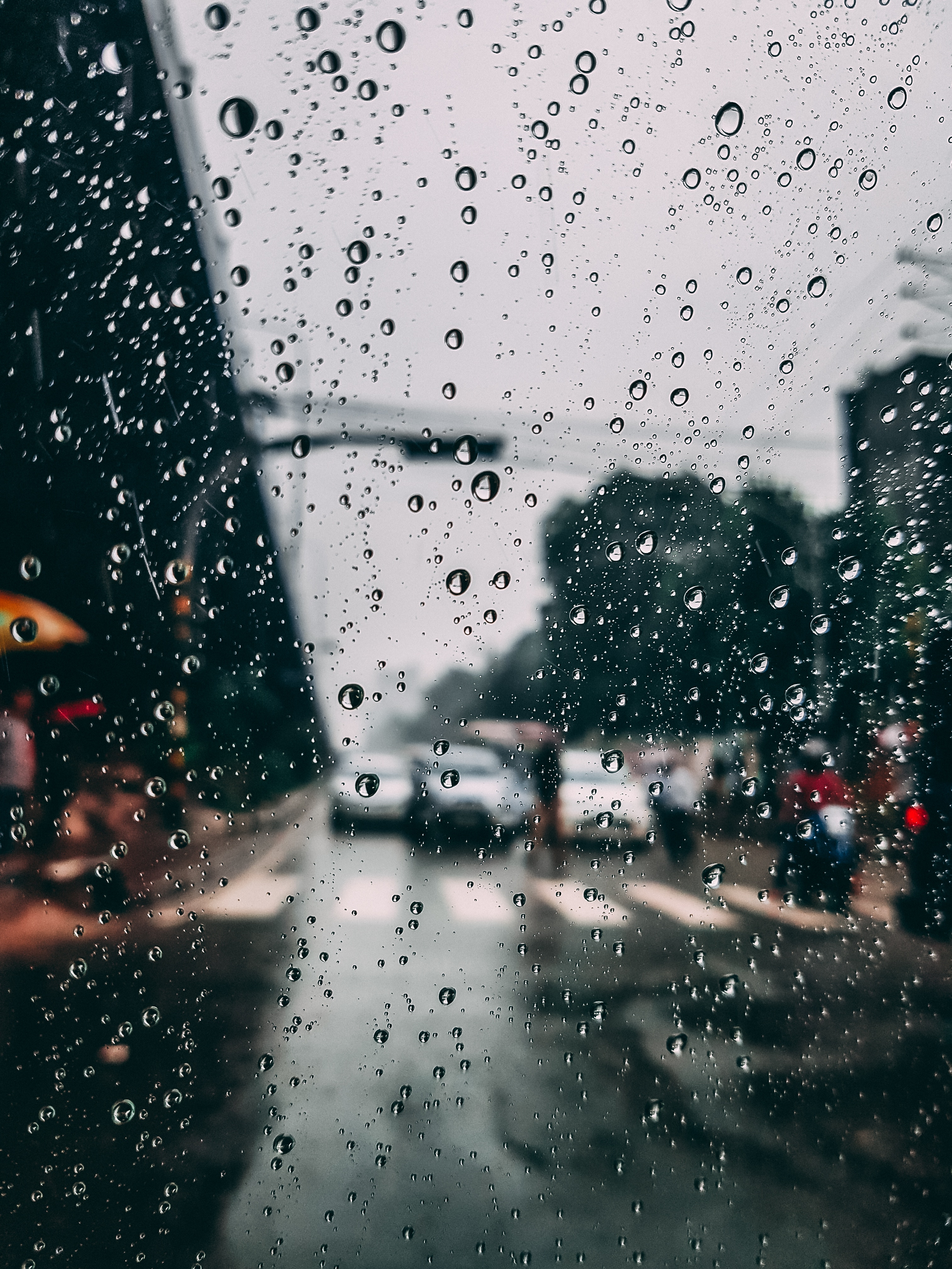
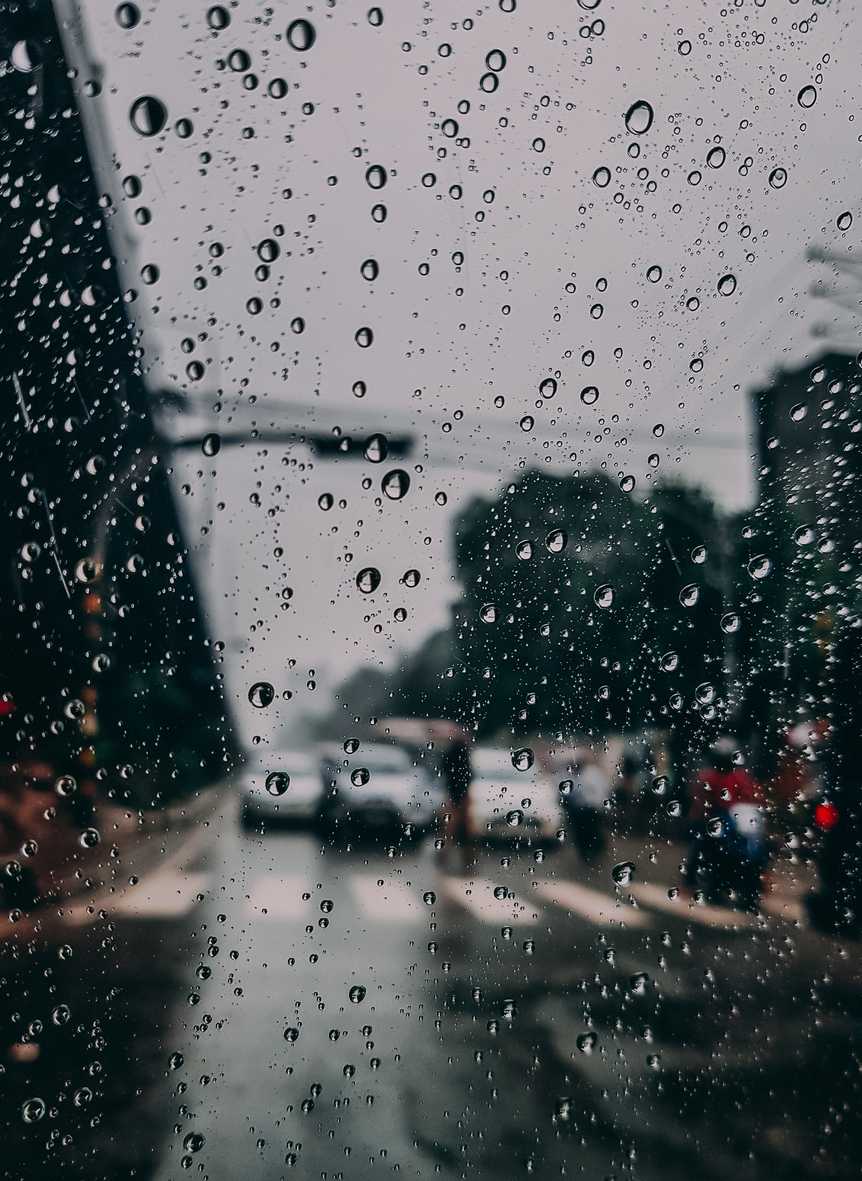
updated photos and font colors to match

diff --git a/scripts/index.js b/scripts/index.js
@@ -53,10 +53,10 @@ $(document).ready(() => {
         var celsius = Math.round(temperature);
         var fahrenheit = Math.round(celsius * 1.8 + 32);
         var desc = data.weather[0].main;
-        var code = [data.weather[0].id];
+        var code = 301;
         var unitC = " &#8451;";
         var unitF = " &#8457;";
-
+// [data.weather[0].id];
        
         $('#city').html(data.name);
 
@@ -81,36 +81,93 @@ $(document).ready(() => {
           
           if (time > 19 || time < 6) {
             // night theme
-            $('.weather-container').css({
-              'background-image': 'url("../img/night.jpg")'
-            });
+            if (code >= 200 && code < 240) {
+              // thunderstorm theme
+              $('.weather-container').css({
+                'background-image': 'url("../img/storm.jpg")',
+                'color': 'white'
+              });
+            } else if (code >= 300 && code <= 531) {
+              // rain theme
+              $('.weather-container').css({
+                'background-image': 'url("../img/night-rain.jpg")',
+                'color': 'white'
+              });
+            } else if (code >= 600 && code <=622) {
+               // snow theme
+              $('.weather-container').css({
+                'background-image': 'url("../img/snow.jpg")'
+              });
+            } else if (code >= 801 && code <= 804) {
+              // cloudy theme
+              $('.weather-container').css({
+                'background-image': 'url("../img/night.jpg")',
+                'color': 'white'
+              });
+            } else {
+              // night clear
+              $('.weather-container').css({
+                'background-image': 'url("../img/night.jpg")',
+                'color': 'white'
+              });
+            }
           } else if (time > 16 && time < 19) {
             // sunset theme
-            $('.weather-container').css({
-              'background-image': 'url("../img/sunset.jpg")'
-            });
-          } else if (time > 0 && code == /^[2]/) {
-            // thunderstorm theme
-            $('.weather-container').css({
-              'background-image': 'url("../img/storm.jpg")'
-            });
-          } else if (time > 0 && (code == /^[3]/ || code == /^[5]/)) {
-            // rain theme
-            $('.weather-container').css({
-              'background-image': 'url("../img/rain.jpg")'
-            });
-          } else if (time > 0 && code == /^[6]/) {
-            $('.weather-container').css({
-              'background-image': 'url("../img/snow.jpg")'
-            });
-          } else if (time > 0 && (code == /^[8]/ && code != 800)) {
-            $('.weather-container').css({
-              'background-image': 'url("../img/cloudy.jpg")'
-            });
+            if (code >= 200 && code < 240) {
+              // thunderstorm theme
+              $('.weather-container').css({
+                'background-image': 'url("../img/storm.jpg")',
+                'color': 'white'
+              });
+            } else if (code >= 300 && code <= 531) {
+              // rain theme
+              $('.weather-container').css({
+                'background-image': 'url("../img/rain.jpg")'
+              });
+            } else if (code >= 600 && code <=622) {
+               // snow theme
+              $('.weather-container').css({
+                'background-image': 'url("../img/snow.jpg")'
+              });
+            } else if (code >= 801 && code <= 804) {
+              // cloudy theme
+              $('.weather-container').css({
+                'background-image': 'url("../img/cloudy.jpg")'
+              });
+            } else {
+              // night clear
+              $('.weather-container').css({
+                'background-image': 'url("../img/sunset.jpg")',
+                'color': 'white'
+              });
+            }
           } else {
-            $('.weather-container').css({
-              'background-image': 'url("../img/day.jpg")'
-            });
+            if (code >= 200 && code < 240) {
+              // thunderstorm theme
+              $('.weather-container').css({
+                'background-image': 'url("../img/storm.jpg")',
+                'color': 'white'
+              });
+            } else if (code >= 300 && code <= 531) {
+              // rain theme
+              $('.weather-container').css({
+                'background-image': 'url("../img/rain.jpg")'
+              });
+            } else if (code >= 600 && code <=622) {
+               // snow theme
+              $('.weather-container').css({
+                'background-image': 'url("../img/snow.jpg")'
+              });
+            } else if (code >= 801 && code <= 804) {
+              // cloudy theme
+              $('.weather-container').css({
+                'background-image': 'url("../img/cloudy.jpg")'
+              });
+            } else {
+              $('.weather-container').css({
+                'background-image': 'url("../img/day.jpg")'
+              });
+            }
           };
         };
         getTime();

diff --git a/styles/style.css b/styles/style.css
@@ -46,6 +46,7 @@ body {
    background-color: rgb(254, 255, 255);
    background-repeat: no-repeat;
    background-size: cover;
+   color: white;
    width: 320px;
    min-height: 538px;
    margin-top: 150px;
@@ -56,7 +57,7 @@ body {
    box-shadow: 0px 40px 150px 10px rgba(69, 69, 69, 0.5);
    overflow: hidden;
    transition: background .3s ease-out;
-   z-index:3;
+   z-index:2;
 }
 
 .weather-desc {
@@ -77,7 +78,7 @@ i {
 #toggle-button {
    background: none;
    border: none;
-   color: black;
+   color: inherit;
 }
 
 
